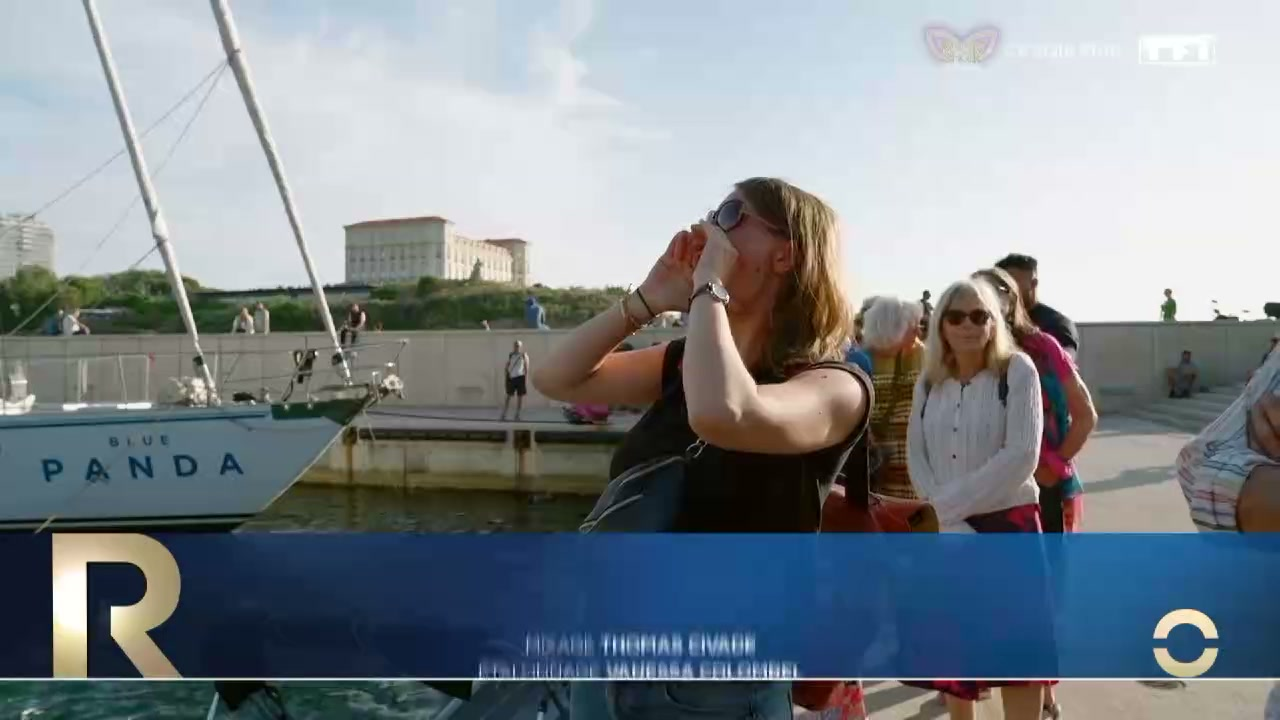
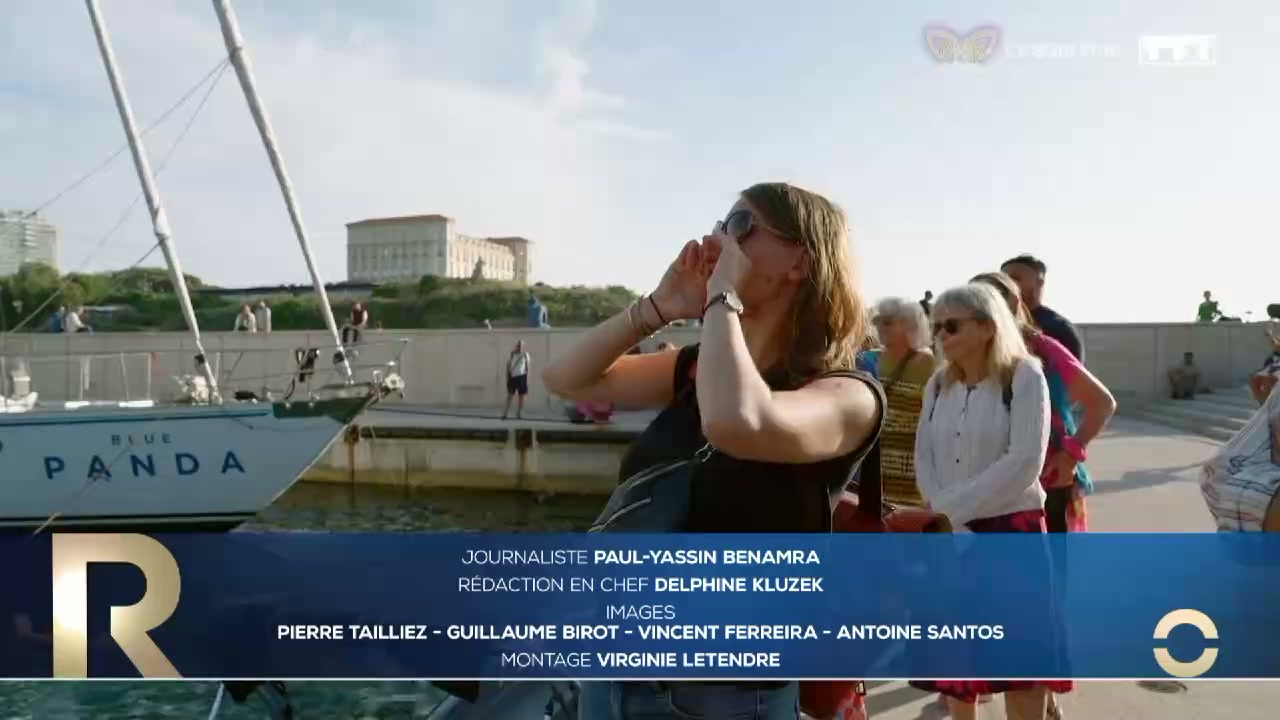
Update tourisme gallery images

diff --git a/app/routes/reportage.jsx b/app/routes/reportage.jsx
@@ -236,7 +236,7 @@ export default function Reportage() {
           <Reveal
             key={src}
             as="figure"
-            className={["saul", "chausey", "etretat", "mont-saint-michel", "granville", "erosion-debarquement", "bora-bora-coraux", "deserts-medicaux-drones", "demolition-a13", "lubrizol", "beauregard", "viaduc-calix", "saint-georges-energie-positive", "amazonie-richesse-cosmetique", "bora-bora-eco-camping", "benitier-polynesie", "guadeloupe-place-velo", "guyane-pollutions-sauvages", "guyane-boutique-solidaire-enfants", "amerindiens-culture-guyane", "kitesurf-merville-franceville", "seasonova-slow-life", "sunset-boat-reserve-peche-iode", "ultra-tour-obiou-2026", "zeph-control-entretien-barre-kitesurf", "aftermovie-festival-beauregard-2026"].includes(reportage.slug) && i >= galerie.length - 3
+            className={["saul", "chausey", "etretat", "mont-saint-michel", "granville", "erosion-debarquement", "bora-bora-coraux", "deserts-medicaux-drones", "demolition-a13", "lubrizol", "beauregard", "viaduc-calix", "saint-georges-energie-positive", "amazonie-richesse-cosmetique", "bora-bora-eco-camping", "benitier-polynesie", "guadeloupe-place-velo", "guyane-pollutions-sauvages", "guyane-boutique-solidaire-enfants", "amerindiens-culture-guyane", "kitesurf-merville-franceville", "seasonova-slow-life", "sunset-boat-reserve-peche-iode", "ultra-tour-obiou-2026", "tourisme-paradis-perdus", "zeph-control-entretien-barre-kitesurf", "aftermovie-festival-beauregard-2026"].includes(reportage.slug) && i >= galerie.length - 3
               ? styles.gTierce
               : i % 3 === 2 ? styles.gPleine : styles.gDemi}
             y={40}
